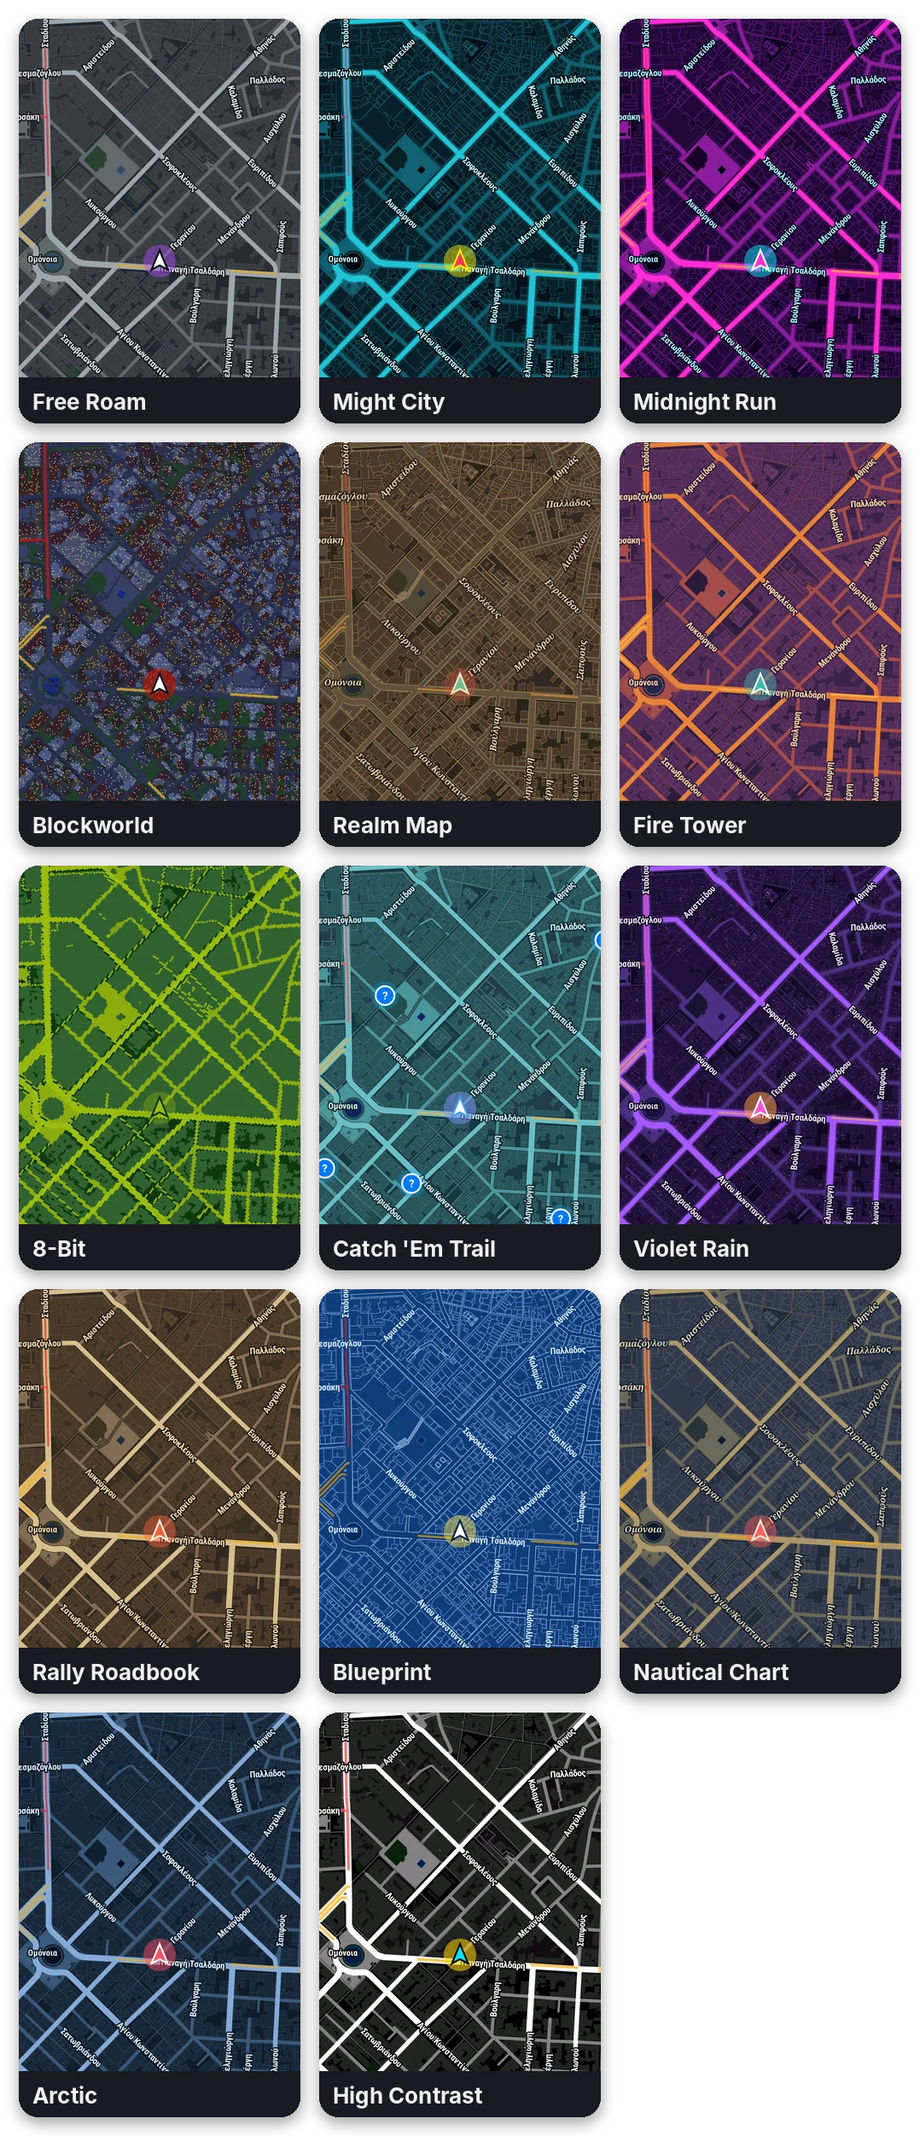
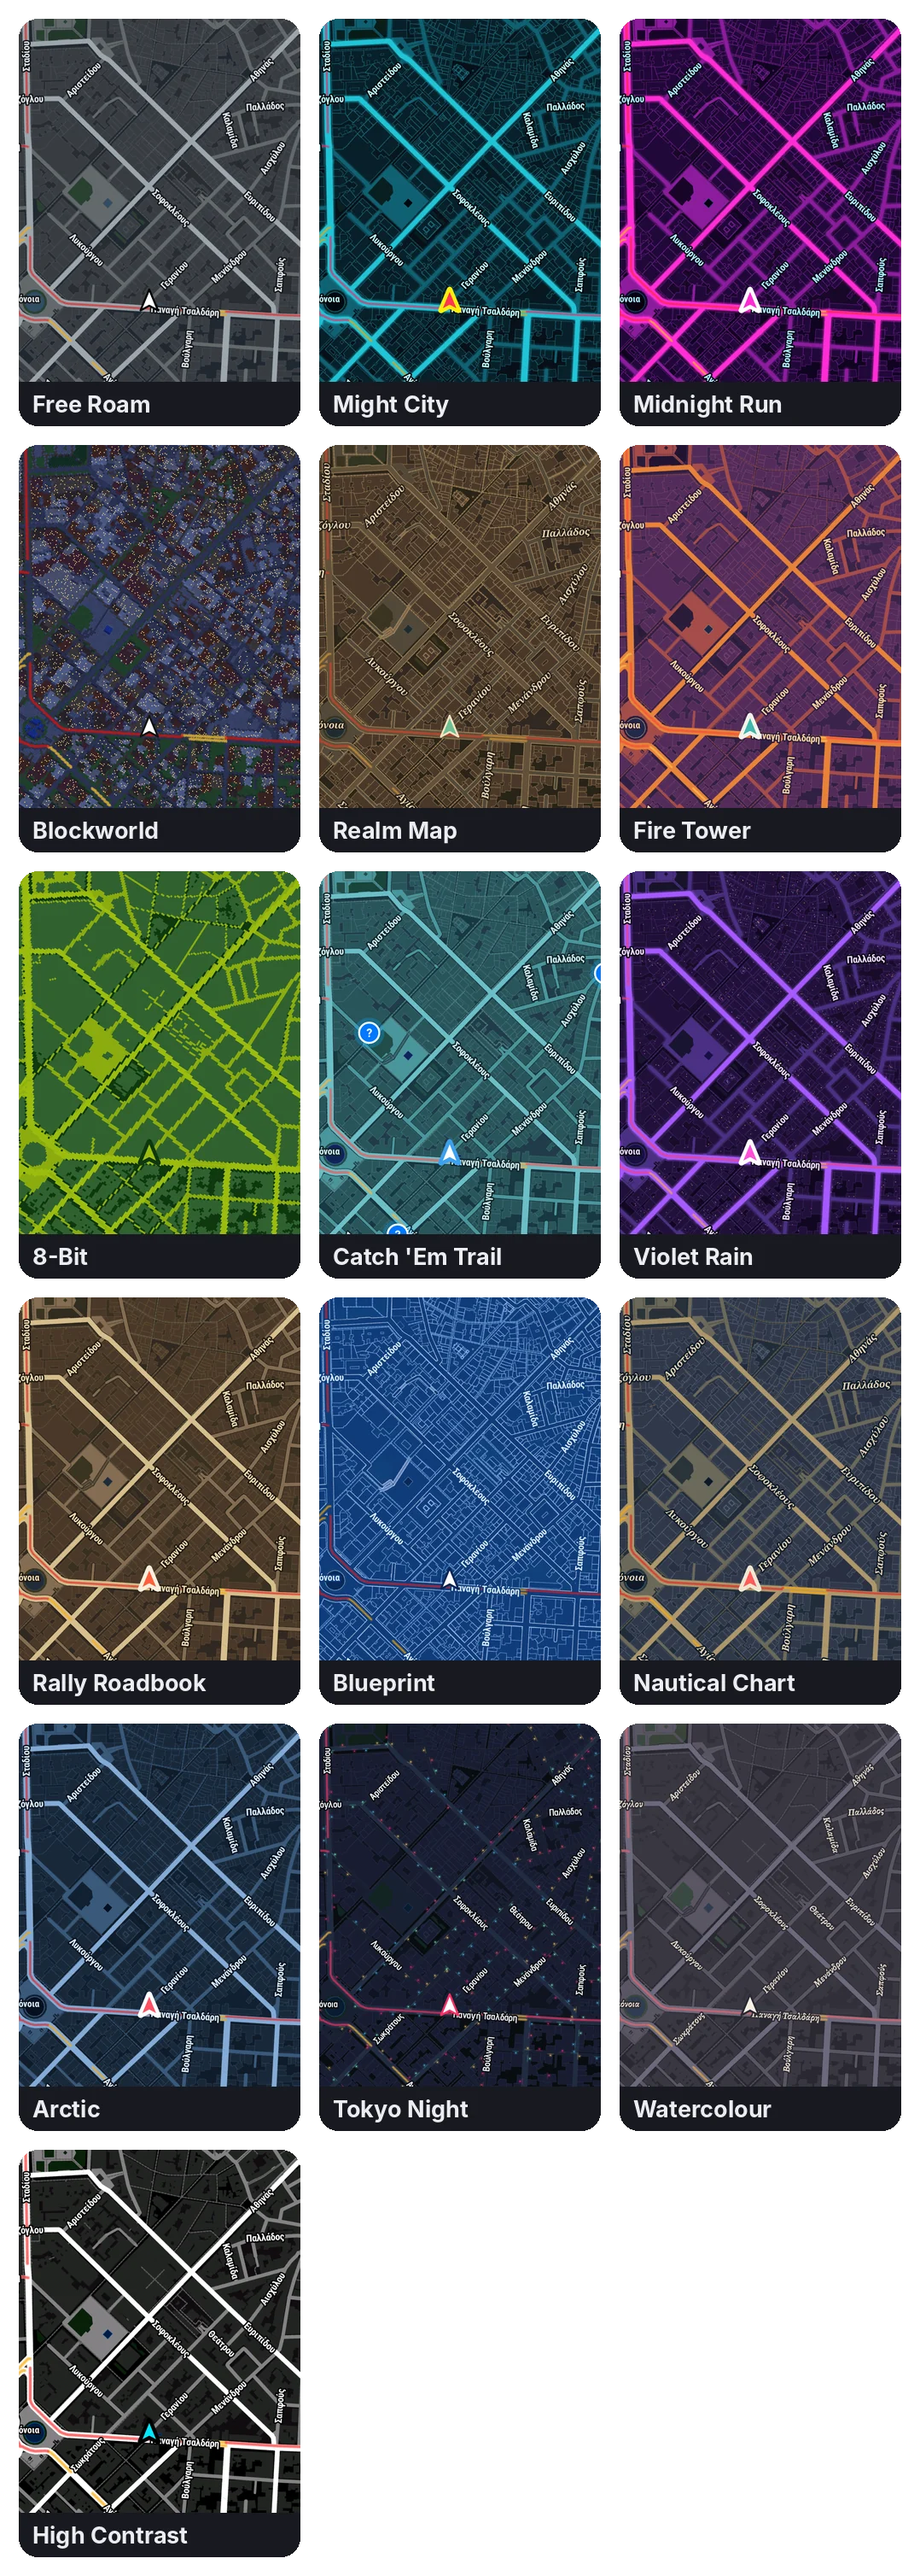
README: style pictures with all 16 styles (Tokyo Night, Watercolour, see-through arrows); script to rebuild them
Claude-Session: https://claude.ai/code/session_01CciuioJVfRXxS6M8gZ8SfV

diff --git a/tools/readme_themes.py b/tools/readme_themes.py
@@ -1,0 +1,45 @@
+#!/usr/bin/env python3
+"""Builds docs/screenshots/themes-light.webp and themes-dark.webp from ReadmeShotsTest's
+rd_theme_<style>_<light|dark>.png shots: one tile per style, three across, the same street corner.
+
+usage: python3 tools/readme_themes.py <folder with rd_theme_*.png> <docs/screenshots>
+"""
+import os, sys
+from PIL import Image, ImageDraw, ImageFont
+
+STYLES = [  # Theme order
+    ("open_world", "Free Roam"), ("neon_noir", "Might City"), ("neon_racer", "Midnight Run"),
+    ("blocky", "Blockworld"), ("parchment_quest", "Realm Map"), ("lookout", "Fire Tower"),
+    ("retro", "8-Bit"), ("trailblazer", "Catch 'Em Trail"), ("violet_rain", "Violet Rain"),
+    ("rally", "Rally Roadbook"), ("blueprint", "Blueprint"), ("nautical", "Nautical Chart"),
+    ("arctic", "Arctic"), ("tokyo_night", "Tokyo Night"), ("watercolour", "Watercolour"),
+    ("high_contrast", "High Contrast"),
+]
+W, COLS, M, GAP = 1078, 3, 22, 22
+TW = (W - 2 * M - (COLS - 1) * GAP) // COLS  # 330
+MH, LH, R = 425, 52, 22                        # map, label band, corner radius
+CROP = (80, 345, 1170, 345 + int((1170 - 80) * MH / TW))  # the corner around Omonoia, under the chips
+FONT = "/usr/share/fonts/opentype/inter/Inter-Bold.otf"
+
+
+def build(src, out, mode):
+    rows = (len(STYLES) + COLS - 1) // COLS
+    H = M * 2 + rows * (MH + LH) + (rows - 1) * GAP
+    img = Image.new("RGBA", (W, H), (0, 0, 0, 0))
+    font = ImageFont.truetype(FONT, 27)
+    band, ink = ((255, 255, 255), (24, 25, 32)) if mode == "light" else ((24, 25, 32), (236, 237, 242))
+    for k, (key, name) in enumerate(STYLES):
+        x = M + (k % COLS) * (TW + GAP); y = M + (k // COLS) * (MH + LH + GAP)
+        tile = Image.new("RGB", (TW, MH + LH), band)
+        shot = Image.open(os.path.join(src, f"rd_theme_{key}_{mode}.png")).convert("RGB")
+        tile.paste(shot.crop(CROP).resize((TW, MH), Image.LANCZOS), (0, 0))
+        ImageDraw.Draw(tile).text((16, MH + LH / 2), name, font=font, fill=ink, anchor="lm")
+        mask = Image.new("L", tile.size, 0)
+        ImageDraw.Draw(mask).rounded_rectangle((0, 0, TW - 1, MH + LH - 1), R, fill=255)
+        img.paste(tile, (x, y), mask)
+    img.save(os.path.join(out, f"themes-{mode}.webp"), quality=86, method=6)
+
+
+if __name__ == "__main__":
+    for mode in ("light", "dark"):
+        build(sys.argv[1], sys.argv[2], mode)

diff --git a/README.md b/README.md
@@ -135,14 +135,14 @@ The same map on the car screen, with the convoy box, places to tap, and its own 
 
 ## 🎨 16 map styles
 
-<img src="docs/screenshots/themes-light.webp" alt="The fourteen map styles" width="100%">
+<img src="docs/screenshots/themes-light.webp" alt="The sixteen map styles" width="100%">
 
 Light, dark, or switching by itself at sunset.
 
 <details>
 <summary><b>Night versions and the list</b></summary>
 <br>
-<img src="docs/screenshots/themes-dark.webp" alt="The fourteen map styles at night" width="100%">
+<img src="docs/screenshots/themes-dark.webp" alt="The sixteen map styles at night" width="100%">
 
 - **Free Roam:** asphalt grey, purple route
 - **Might City:** teal megacity, yellow route
